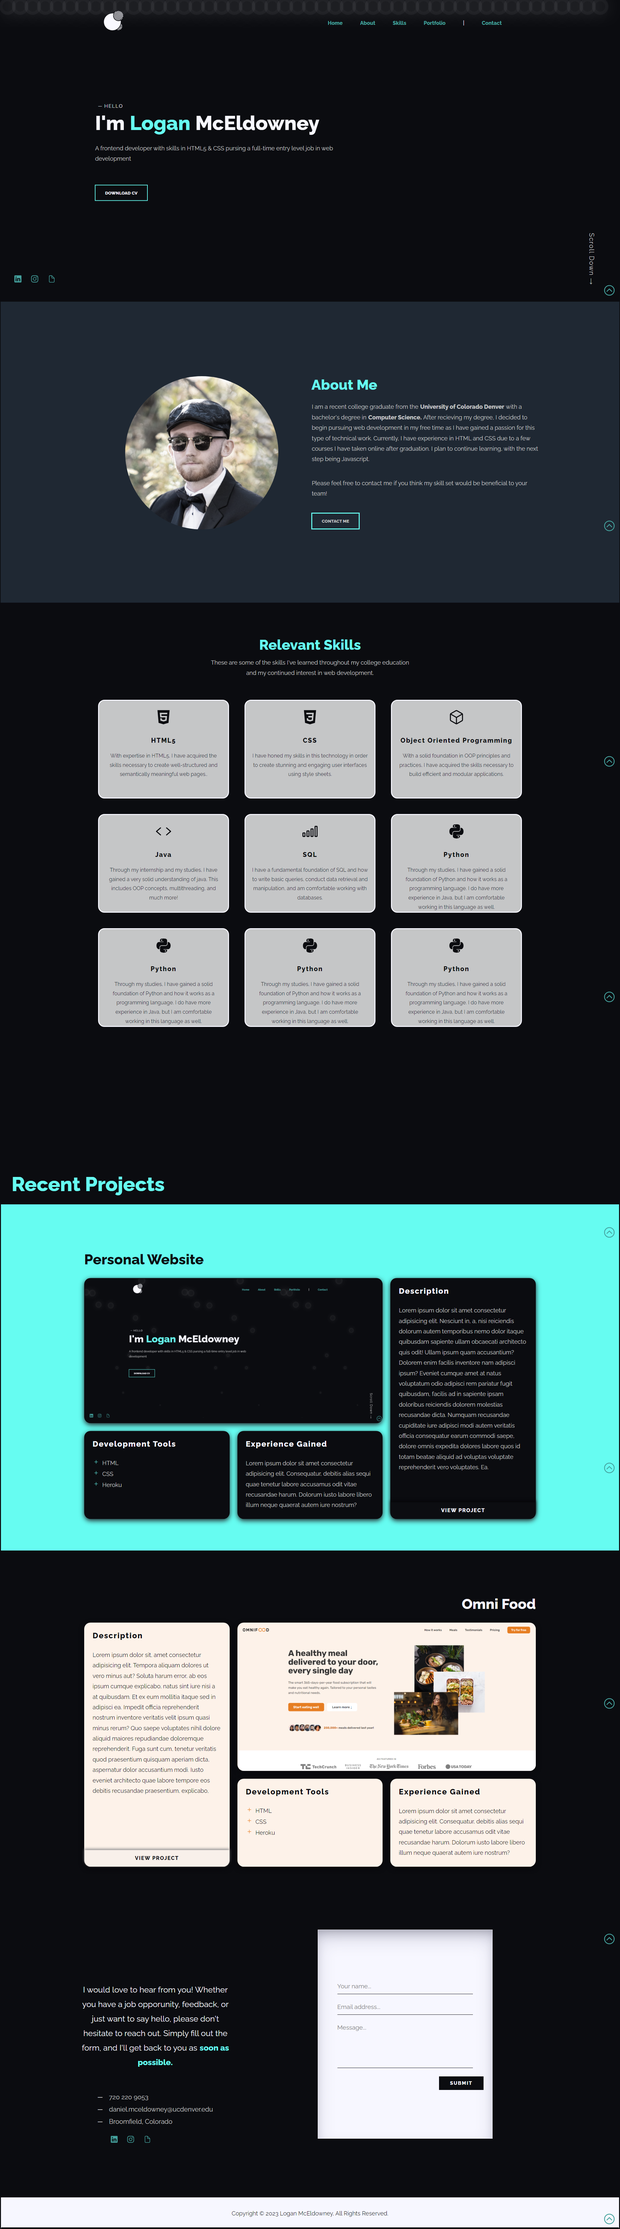
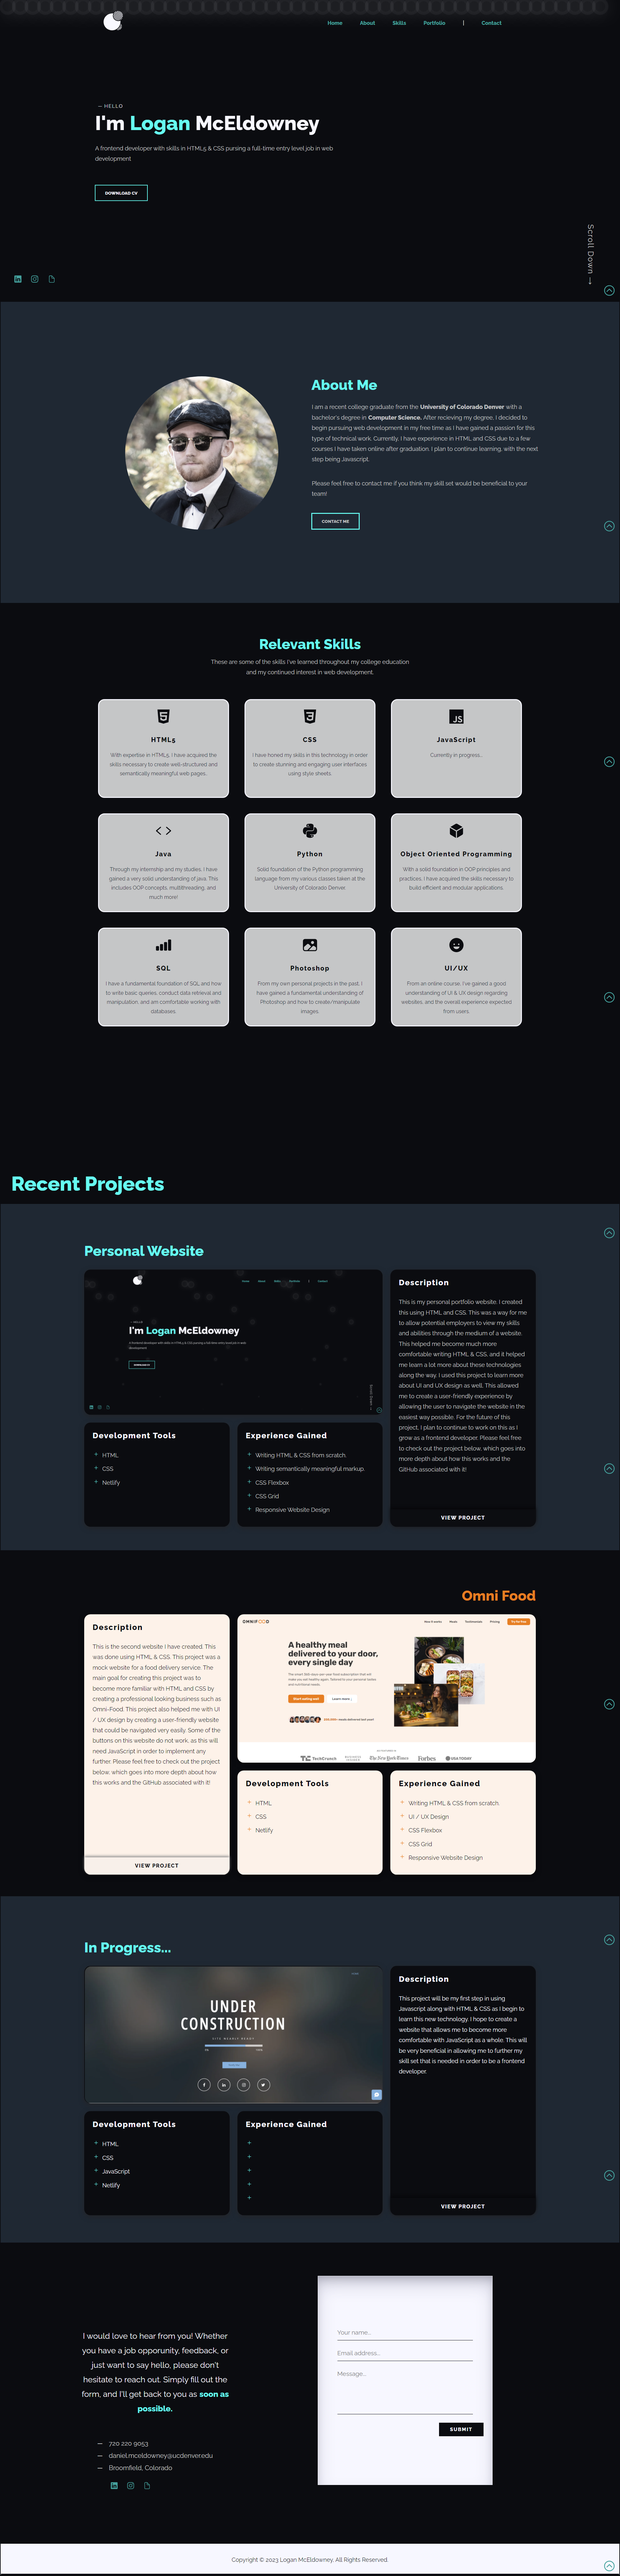
updated text

diff --git a/index.html b/index.html
@@ -102,9 +102,8 @@
                 <div>
                     <p class="hello">&#9472; Hello</p>
                     <h1>I'm <span class="name-span">Logan</span> McEldowney</h1>
-                    <p class="description">A frontend developer with skills in HTML5 & CSS pursing a full-time entry
-                        level job in
-                        web development</p>
+                    <p class="description">A passionate frontend developer proficient in HTML5 and CSS. I am currently
+                        seeking an exciting opportunity for a full-time entry-level position in web development.</p>
                     <button type="button" onclick="window.open('files/Resume.pdf')"> Download CV</button>
                 </div>
                 <div>
@@ -134,26 +133,19 @@
                     <h2 class="about-me-header">About Me</h2>
                     <div class="about-me-description">
                         <p class="about-me-paragraph">I am a recent college graduate from the <strong>University of
-                                Colorado Denver</strong> with a
-                            bachelor's
-                            degree in
-                            <strong>Computer Science.</strong>
-                            After recieving my degree, I decided to begin pursuing web development in my free time as I
-                            have gained a
-                            passion
-                            for
-                            this
-                            type of
-                            technical work. Currently, I have experience in HTML and CSS due to a few courses I have
-                            taken
-                            online
-                            after
-                            graduation. I plan to continue learning, with the next step being Javascript.
+                                Colorado Denver</strong>, holding a bachelor's degree in <strong>Computer
+                                Science</strong>. Eager to delve into the
+                            exciting world of web development, I embarked on this journey during my free time,
+                            discovering a profound passion for this dynamic and technical field. Building on my academic
+                            foundation, I have honed my skills in HTML and CSS through well-crafted online courses
+                            post-graduation. Currently, I am now tackling the next challenge on my path
+                            – mastering Javascript.
 
                         </p>
 
-                        <p class="about-me-paragraph">Please feel free to contact me if you think my skill set would be
-                            beneficial to your team!
+                        <p class="about-me-paragraph">If you believe my skill set aligns with your team's needs, I
+                            welcome you to reach out and connect with me! I am enthusiastic about contributing my
+                            abilities to further the success of your projects.
                         </p>
                     </div>
 
@@ -304,15 +296,15 @@
                         class="project-img"></div>
                 <div class="grid2">
                     <h4 class="project-header">Description</h4>
-                    <p class="project-paragraph">Lorem ipsum dolor sit, amet consectetur adipisicing elit.
-                        Tempora aliquam dolores ut vero minus aut? Soluta harum error, ab eos ipsum cumque
-                        explicabo, natus sint iure nisi a at quibusdam.
-                        Et ex eum mollitia itaque sed in adipisci ea. Impedit officia reprehenderit nostrum
-                        inventore veritatis velit ipsum quasi minus rerum? Quo saepe voluptates nihil dolore aliquid
-                        maiores repudiandae doloremque reprehenderit.
-                        Fuga sunt cum, tenetur veritatis quod praesentium quisquam aperiam dicta, aspernatur dolor
-                        accusantium modi. Iusto eveniet architecto quae labore tempore eos debitis recusandae
-                        praesentium, explicabo,
+                    <p class="project-paragraph">This is the second website I have created. This was done using HTML &
+                        CSS. This project was a mock website for a food delivery service.
+                        The main goal for creating this project was to become more familiar with HTML and CSS by
+                        creating a professional looking business such as Omni-Food. This project
+                        also helped me with UI / UX design by creating a user-friendly website that could be navigated
+                        very easily. Some of the buttons on this website do not work, as this
+                        will need JavaScript in order to implement any further. Please feel free to check out the
+                        project below, which goes into more depth
+                        about how this works and the GitHub associated with it!
                     </p>
                     <a class="view-project-button" href="/html/omnifood.html">View Project</a>
                 </div>
@@ -321,7 +313,7 @@
                     <ul class="development-tools">
                         <li><ion-icon name="add-outline"></ion-icon><span>HTML</span></li>
                         <li><ion-icon name="add-outline"></ion-icon><span>CSS</span></li>
-                        <li><ion-icon name="add-outline"></ion-icon><span>Heroku</span></li>
+                        <li><ion-icon name="add-outline"></ion-icon><span>Netlify</span></li>
                     </ul>
                     <p class="project-paragraph"></p>
                 </div>
@@ -330,8 +322,7 @@
                     <ul class="development-tools">
                         <li><ion-icon name="add-outline"></ion-icon><span>Writing HTML & CSS from scratch.</span>
                         </li>
-                        <li><ion-icon name="add-outline"></ion-icon><span>Writing semantically meaningful
-                                markup.</span></li>
+                        <li><ion-icon name="add-outline"></ion-icon><span>UI / UX Design</span></li>
                         <li><ion-icon name="add-outline"></ion-icon><span>CSS Flexbox</span></li>
                         <li><ion-icon name="add-outline"></ion-icon><span>CSS Grid</span></li>
                         <li><ion-icon name="add-outline"></ion-icon><span>Responsive Website Design</span></li>
@@ -347,36 +338,38 @@
         <section class="page4section">
             <h2 class="project-title">In Progress...</h2>
             <div class="project-grid">
-                <div class="grid1"><img src="/" alt="Snapshot of nothing" class="project-img"></div>
+                <div class="grid1"><img src="/img/Construction.PNG" alt="Snapshot of nothing" class="project-img"></div>
                 <div class="grid2">
                     <h4 class="project-header">Description</h4>
-                    <p class="project-paragraph">Lorem ipsum dolor sit, amet consectetur adipisicing elit.
-                        Tempora aliquam dolores ut vero minus aut? Soluta harum error, ab eos ipsum cumque
-                        explicabo, natus sint iure nisi a at quibusdam.
-                        Et ex eum mollitia itaque sed in adipisci ea. Impedit officia reprehenderit nostrum
-                        inventore veritatis velit ipsum quasi minus rerum? Quo saepe voluptates nihil dolore aliquid
-                        maiores repudiandae doloremque reprehenderit.
-                        Fuga sunt cum, tenetur veritatis quod praesentium quisquam aperiam dicta, aspernatur dolor
-                        accusantium modi. Iusto eveniet architecto quae labore tempore eos debitis recusandae
-                        praesentium, explicabo,
+                    <p class="project-paragraph">This project will be my first step in using Javascript along with HTML
+                        & CSS as I
+                        begin to learn this new technology. I hope to create a website that allows me to become more
+                        comfortable
+                        with JavaScript as a whole. This will be very beneficial in allowing me to further my skill set
+                        that is needed in order to be a frontend developer.
                     </p>
-                    <a class="view-project-button" href="/html/omnifood.html">View Project</a>
+                    <a class="view-project-button" href="#Portfolio3">View Project</a>
                 </div>
                 <div class="grid3">
                     <h4 class="project-header">Development Tools</h4>
                     <ul class="development-tools">
                         <li><ion-icon name="add-outline"></ion-icon><span>HTML</span></li>
                         <li><ion-icon name="add-outline"></ion-icon><span>CSS</span></li>
-                        <li><ion-icon name="add-outline"></ion-icon><span>Heroku</span></li>
+                        <li><ion-icon name="add-outline"></ion-icon><span>JavaScript</span></li>
+                        <li><ion-icon name="add-outline"></ion-icon><span>Netlify</span></li>
                     </ul>
                     <p class="project-paragraph"></p>
                 </div>
                 <div class="grid4">
                     <h4 class="project-header">Experience Gained</h4>
-                    <p class="project-paragraph">Lorem ipsum dolor sit amet consectetur adipisicing
-                        elit. Consequatur, debitis alias
-                        sequi quae tenetur labore accusamus odit vitae recusandae harum. Dolorum iusto
-                        labore libero illum neque quaerat autem iure nostrum?</p>
+                    <ul class="development-tools">
+                        <li><ion-icon name="add-outline"></ion-icon><span></span>
+                        </li>
+                        <li><ion-icon name="add-outline"></ion-icon><span></span></li>
+                        <li><ion-icon name="add-outline"></ion-icon><span></span></li>
+                        <li><ion-icon name="add-outline"></ion-icon><span></span></li>
+                        <li><ion-icon name="add-outline"></ion-icon><span></span></li>
+                    </ul>
 
                 </div>
             </div>

diff --git a/html/omnifood.html b/html/omnifood.html
@@ -32,56 +32,42 @@
             <a href="https://github.com/loganmceldowney24?tab=repositories" target="_blank">GitHub</a>
             <a href="">Live</a>
         </nav>
-        <img src="" alt="">
+        <img src="/img/omnifood-long.png" alt="">
         <h2>Project Purpose & Goal</h2>
-        <p class="description">The purpose of creating this project was to demonstrate my skills as a web developer. I
-            did this by creating
-            my
-            own personal website that could walk potential employers through my <strong>skills</strong> and
-            <strong>abilities</strong> in
-            a more
-            interactive way.
-            This being one of my first actual websites, my main goal was to become more comfortable with HTML and CSS.
-            In addition to this,
-            I was able to learn a lot more about these technologies and be able to showcase my potential to employers.
+        <p class="description">The purpose of creating this project was in order to become more comfortable working with
+            HTML & CSS. This project was a part of a course
+            I was taking on Udemy in order to learn these skills better. Therefore, by creating this website, I was able
+            to become much more proficient at writing HTML and CSS as a whole.
+            The main goal for creating this project was being able to create a very professional looking
+            meal-delivery-service website that could be used to demonstrate my skills.
         </p>
 
         <h2>Technologies Used</h2>
         <p class="description">The main technologies used for this project was <strong>HTML</strong> and
-            <strong>CSS.</strong> Having just completed an
-            online course
-            regarding these topics, I felt that it was a perfect time to create my own personal website. While creating
-            this, I became much more comfortable using HTML and CSS, and learning much more about actually designing a
-            website. I believe this made it much easier for me to implemenet these languages in a much more efficient
-            way.
+            <strong>CSS.</strong> From an online course from Udemy, this was the main project that was associated with
+            that course. The main idea of creating this was
+            to become better at using HTML & CSS and learning different aspects of these technologies. For this project,
+            it included CSS Grid, CSS Flexbox, Hover effects, and much more!
         </p>
 
         <h2>Design & Thought Process</h2>
         <p class="description">Before designing this website, I wanted the user to have a very easy time navigating the
             website.
-            To do this, I implemented a navigation bar at the top, and also an arrow that follows the user as he/she
-            scrolls down the page.
-            This allows the user to be able to jump to the top of the page, or specific sections very easily.
+            To do this, I implemented a navigation bar at the top, and also bright colors for the buttons that need to
+            draw the most attention.
+            This allowed the user to be able to look around the website, and find the most important information in a
+            very quick way.
         </p>
-        <p class="description">In addition to this, I wanted the website to be <strong>interactive and fun to
-                use.</strong> To do this, I
-            implemented hover effects
-            on some of my elements in order to make the page feel more interactive.
+        <p class="description">In addition to this, the website needed to be very professional looking. To do this, the
+            website is broken down into different sections that
+            had a very clean feel to it. This was done by using UI/UX design principles that were taught in this course
+            in order to create a very nice experience for the user.
         </p>
-        <p class="description">As far as the overall design of this website, I mainly wanted to include <strong>5
-                different
-                sections.</strong>
-            These include the home page, about page, skills page, portfolio page, and finally the contact page. The home
-            page would
-            simply introduce myself, and allow the user to be able to download my resume. From here, the about page will
-            briefly talk
-            about myself and my passion for web development. After this, the skills section lists the different skills I
-            have gained
-            throughout my college education and my further studies into web development. Next, the featured projects
-            page would simply
-            allow the user to view specific projects that I have created over the past few months. Finally, the contact
-            page allows the user
-            to contact me through a forum in order to discuss further with me regarding potential career opportunities.
+        <p class="description">
+            Aside from that, this website was also my first view into responsive web design. This website allowed me to
+            create something that could be used on large screens, as well as small screens very easily.
+            Learning responsive design was a very crucial part of the course I took on Udemy, and it was very beneficial
+            to be able to learn these topics in an interactive way.
         </p>
     </article>
 

diff --git a/styles/styles.css b/styles/styles.css
@@ -676,6 +676,7 @@ button:hover {
     width: 100%;
     height: 100%;
     object-fit: cover;
+
 }
 
 .page4-part3 .view-project-button {
